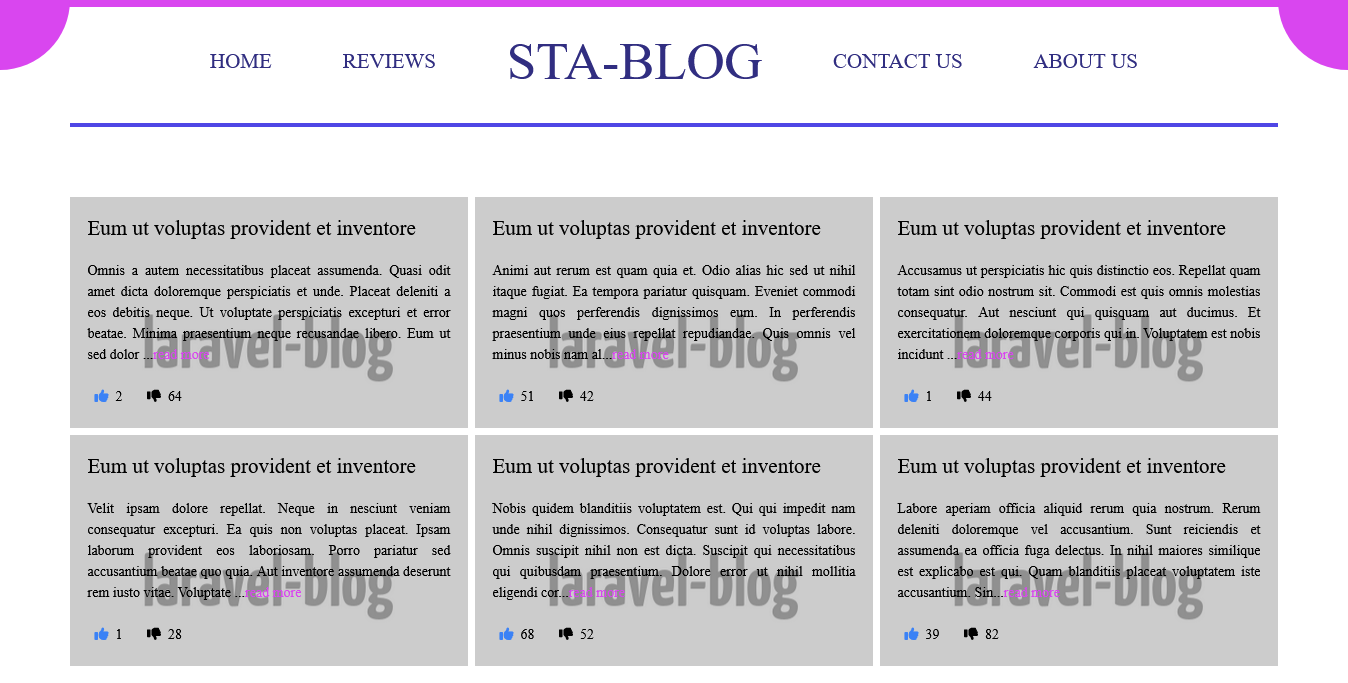
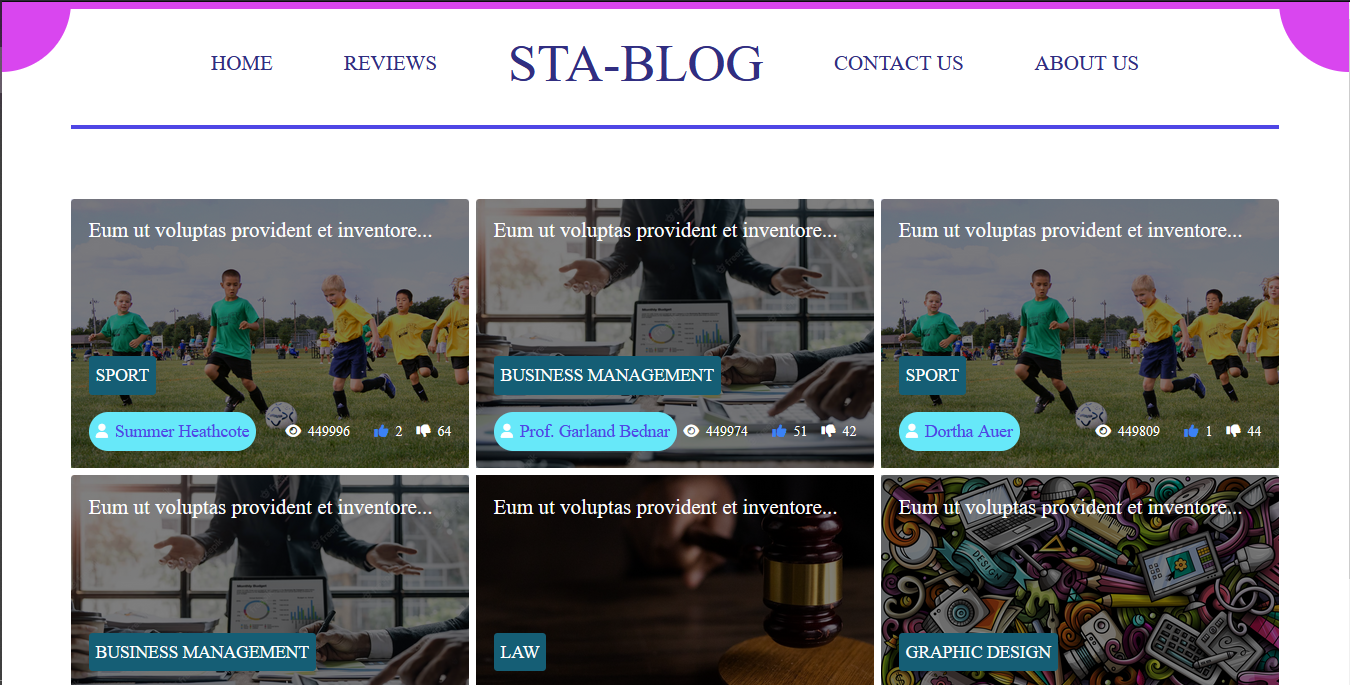
make main frontend "not responsive yet"

diff --git a/resources/js/Layouts/Main.jsx b/resources/js/Layouts/Main.jsx
@@ -1,7 +1,7 @@
 import { router } from "@inertiajs/react";
 import React from "react";
 
-function Main({ articlesOBV }) {
+function Main({ articlesOBV, users }) {
     //
     const tenArticles = [];
     for (let i = 0; i < 6; i++) {
@@ -9,31 +9,57 @@ function Main({ articlesOBV }) {
     }
 
     return (
-        <main className="px-20">
-            <section className="grid gap-2 grid-cols-3 grid-rows-3">
+        <main className="px-20 text-white">
+            <section className="grid gap-2 grid-cols-3 grid-rows-2">
                 {tenArticles.map((article, key) => {
                     return (
+                        // the article
                         <div
-                            style={{ backgroundImage: `url(${article.img})` }}
+                            style={{
+                                backgroundImage: `url(${article.img})`,
+                            }}
                             key={key}
-                            className="bg-cover p-5"
+                            className="bg-cover"
                         >
-                            <h2 className="text-2xl mb-5">{article.title}</h2>
-                            <p className="text-justify mb-5">
-                                {article.body.slice(0, 255)}...
-                                <span className="text-fuchsia-500">
-                                    read more
+                            <div className="bg-black bg-opacity-50 p-5 rounded">
+                                <h2 className="text-2xl mb-32 text-white">
+                                    {article.title.slice(0, 40)}...
+                                </h2>
+                                <span className="p-2 mb-5 flex items-center w-fit rounded bg-cyan-800 text-white bold text-xl uppercase">
+                                    {article.category}
                                 </span>
-                            </p>
-                            <div>
-                                <span className="mr-5">
-                                    <i className="fa-solid fa-thumbs-up text-blue-500 m-2"></i>
-                                    {article.nbr_likes}
-                                </span>
-                                <span>
-                                    <i className="fa-solid fa-thumbs-down m-2"></i>
-                                    {article.nbr_dislikes}
-                                </span>
+                                <div className="flex justify-between">
+                                    <span className="p-2 flex items-center w-fit rounded-full bg-cyan-300">
+                                        {/* Author */}
+                                        <i className="fa-solid fa-user"></i>
+                                        <span className="bold text-xl text-indigo-600 ml-2">
+                                            {
+                                                users.find((item) => {
+                                                    return (
+                                                        item.id ==
+                                                        article.user_id
+                                                    );
+                                                }).username
+                                            }
+                                        </span>
+                                    </span>
+                                    <span className="flex items-center">
+                                        {/* traffic */}
+                                        <span className="mr-5">
+                                            {/* views span */}
+                                            <i className="fa-solid fa-eye mr-2"></i>
+                                            {article.views}
+                                        </span>
+                                        <span className="mr-2">
+                                            <i className="fa-solid fa-thumbs-up text-blue-500 m-2"></i>
+                                            {article.nbr_likes}
+                                        </span>
+                                        <span>
+                                            <i className="fa-solid fa-thumbs-down m-2"></i>
+                                            {article.nbr_dislikes}
+                                        </span>
+                                    </span>
+                                </div>
                             </div>
                         </div>
                     );

diff --git a/resources/js/Pages/Home.jsx b/resources/js/Pages/Home.jsx
@@ -5,11 +5,11 @@ import Header from "../Layouts/Header";
 import Main from "../Layouts/Main";
 import Nav from "../Layouts/Nav";
 
-function Home({articlesOBV}) {
+function Home({articlesOBV , users}) {
     return (
         <>
             <Header />
-            <Main articlesOBV={articlesOBV} />
+            <Main articlesOBV={articlesOBV} users={users} />
             <Nav/>
             <Footer />
         </>

diff --git a/app/Http/Controllers/GlobalController.php b/app/Http/Controllers/GlobalController.php
@@ -9,8 +9,10 @@ use Inertia\Inertia;
 
 class GlobalController extends Controller
 {
-    public function  fetch_home_data(){
+    public function fetch_home_data()
+    {
         $articlesOBV = DB::table('articles')->orderByDesc('views')->get();
-        return Inertia::render('Home' ,compact('articlesOBV'));
+        $users = DB::table('users')->get();
+        return Inertia::render('Home', compact(['articlesOBV', 'users']));
     }
 }

diff --git a/README.md b/README.md
@@ -3,6 +3,7 @@
 
 ![Alt Text][public\readme_imgs\home.png]
 
+
 # License
 
 The Laravel-blog is open-sourced software licensed under the [MIT license](https://opensource.org/licenses/MIT).
